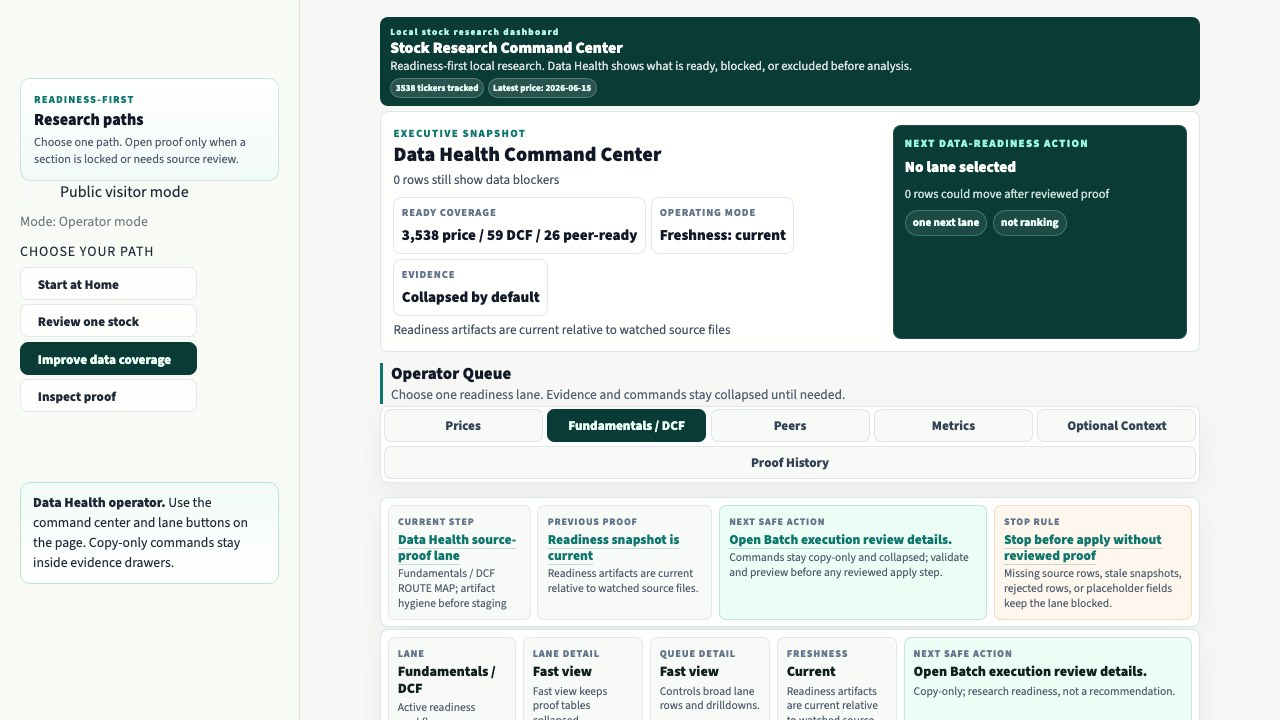
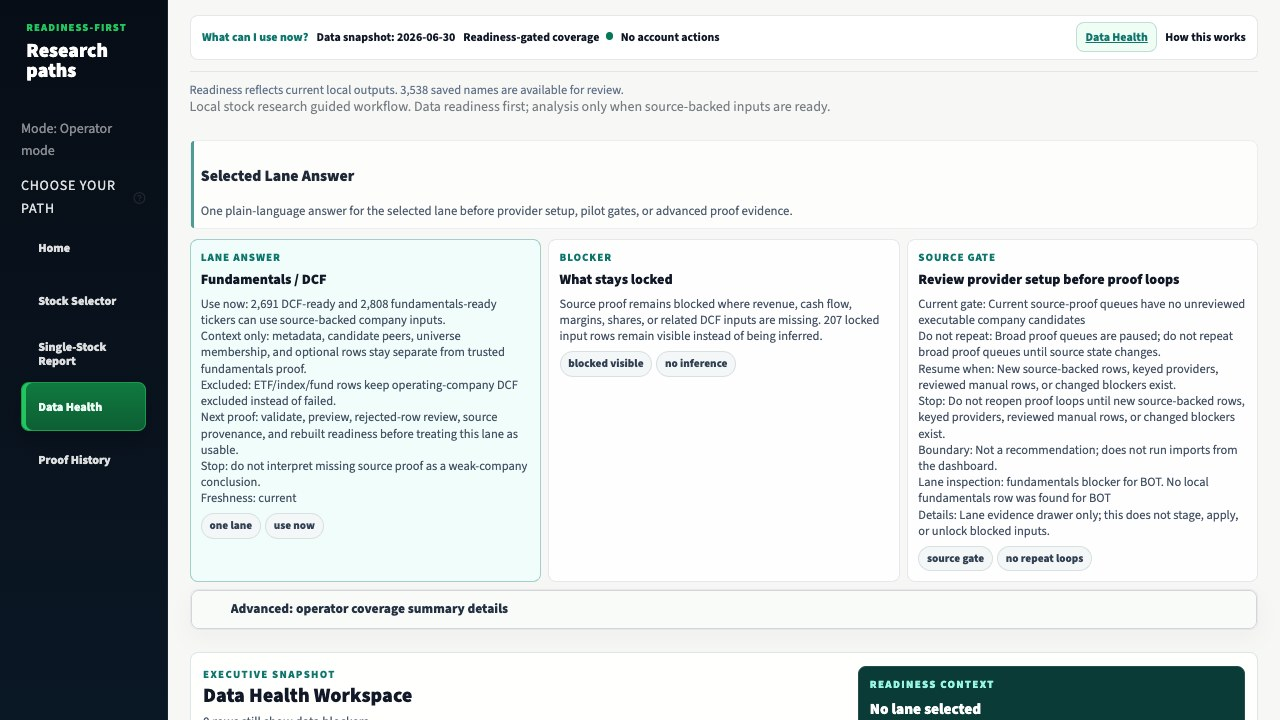
Clarify public workflow and refresh route evidence

diff --git a/tests/test_launchers.py b/tests/test_launchers.py
@@ -758,8 +758,8 @@ def test_readme_public_landing_page_is_short_visual_and_command_focused():
     assert "A tracked ticker is not automatically ready for every analysis family" in readme
     assert "## What Works Today" in readme
     assert "## Try This Visitor Workflow" in readme
-    assert "Open the product first: Home workflow start -> Stock Selector -> Single-Stock Report -> Data Health lane answer -> Proof History evidence." in readme
-    assert "Stock Selector is the primary public stock-selection surface" in readme
+    assert "Open the product first and follow the five-page path." in readme
+    assert "Stock Selector filters readiness-backed candidates without framing the queue as advice." in readme
     assert "Use terminal commands only when you want to inspect the same proof artifacts locally." in readme
     assert "Optional local proof checks:" in readme
     assert "| Home | You want the workflow question, next safe action, stop rule, and then readiness context before choosing a route. | `Home` |" in readme
@@ -767,8 +767,7 @@ def test_readme_public_landing_page_is_short_visual_and_command_focused():
     assert "| Single-Stock Report | You want a ticker-level research note with ready, blocked, excluded, and data-confidence states. | `Single-Stock Report` |" in readme
     assert "| Proof History | You want to see the proof ledger, recent source-proof actions, and still-blocked fields before trusting changed readiness. | `Proof History` |" in readme
     assert "`Home`, then focused review pages" not in readme
-    assert "The shortest public walkthrough is: Home workflow start -> Stock Selector -> Single-Stock Report -> Data Health lane answer -> Proof History evidence" in readme
-    assert "with NVDA, META, QQQ, MU, and CRDO available as optional state examples" in readme
+    assert "The shortest public walkthrough uses NVDA, META, QQQ, MU, and CRDO only as optional state examples." in readme
     assert "[Visitor Workflow Walkthrough](docs/PUBLIC_DEMO_WALKTHROUGH.md)" in readme
     assert "validate/apply step, rejected-row report, and rebuild-proof packet" not in readme
     assert "make project-status" in public_demo
@@ -849,16 +848,11 @@ def test_readme_public_landing_page_is_short_visual_and_command_focused():
             "single-stock reports with reader guidance, proof checklists, blockers, read-only proof steps, and source readiness notes",
         "The report is not a black box",
         "project rules decide what can be analyzed",
-        "Readiness gate: checks prices, fundamentals, DCF fields, peers, earnings, and estimates before deeper analysis appears",
-        "Supported analysis: price-ready rows can support setup/risk context",
+        "Price-ready rows can support setup/risk context",
         "DCF-ready rows can support assumptions and sensitivity",
         "peer-ready rows can support source-backed relative context",
-        "Locked or excluded boundaries: missing fundamentals, peer inputs, earnings, or estimates stay locked",
+        "Missing fundamentals, peer inputs, earnings, or estimates stay locked",
         "company valuation is excluded for ETF/index/fund monitor rows, not failed",
-        "Report explanation: single-stock reports show what came from source rows",
-        "what the product calculated",
-        "what stayed withheld",
-        "next local proof step",
         "Markdown reports start with a visitor scan cue, then `At A Glance`, a `Reader Guide`, an `Evaluation Snapshot`, a `Proof Checklist`, and `Best Review Path`",
         "what evidence proves the current mode",
         "what valuation is supported or blocked",
@@ -2364,7 +2358,7 @@ def test_makefile_verify_and_daily_targets_reuse_shared_make_workflows():
     assert "price-status:\n\tpython3 -m src.data_update --price-status $(if $(TOP_N),--top-n $(TOP_N),) $(if $(TICKERS),--tickers $(TICKERS),)" in makefile
     assert '@echo "Read-only guide: this target prints the visitor path only. It does not refresh data, import rows, or rewrite reports."' in makefile
     assert "@echo \"Visitor workflow path:\"" in makefile
-    assert "@echo \"   Home workflow start -> Stock Selector -> Single-Stock Report -> Data Health lane answer -> Proof History evidence\"" in makefile
+    assert "@echo \"   Home -> Stock Selector -> Single-Stock Report -> Data Health -> Proof History\"" in makefile
     assert "@echo \"   Optional state examples: NVDA ready, META blocked, QQQ excluded, MU peer-limited, CRDO fundamentals-gated\"" in makefile
     assert "@echo \"What this proves: readiness-backed selection comes first, ready data is analyzed, blocked data stays visible, and non-applicable methods are excluded instead of forced.\"" in makefile
     assert "@echo \"Data-confidence note: data confidence describes readiness and review routing, not investment conviction.\"" in makefile

diff --git a/src/browser_qa_evidence.py b/src/browser_qa_evidence.py
@@ -80,7 +80,7 @@ DEFAULT_BROWSER_QA_CAPTURE_TARGETS: tuple[BrowserQaCaptureTarget, ...] = (
             "research-loop-strip",
             "One-Stock Review",
             "Review Status",
-            "SELECTED TICKER",
+            "Selected ticker",
             "NEXT STEP",
         ),
         min_width=1000,
@@ -91,10 +91,10 @@ DEFAULT_BROWSER_QA_CAPTURE_TARGETS: tuple[BrowserQaCaptureTarget, ...] = (
         name="Data Health proof lane screenshot",
         path=Path("docs/assets/operator-data-health-proof-real.jpg"),
         route="http://localhost:8501/?mode=operator&page=data-health&lane=proof",
-        first_view_markers=("research-loop-strip", "ops-mode-strip", "Proof lane shell", "Review details"),
+        first_view_markers=("research-loop-strip", "ops-mode-strip", "Selected Lane Answer", "Proof History"),
         min_width=1000,
         min_height=600,
-        use="Operator proof that proof details are progressively loaded and not shown as raw tables first.",
+        use="Operator proof that Data Health answers the selected lane before advanced evidence details.",
     ),
     BrowserQaCaptureTarget(
         name="Data Health queue drawer routing screenshot",
@@ -103,13 +103,13 @@ DEFAULT_BROWSER_QA_CAPTURE_TARGETS: tuple[BrowserQaCaptureTarget, ...] = (
         first_view_markers=(
             "research-loop-strip",
             "ops-mode-strip",
-            "Operator Queue",
-            "ROUTE MAP",
-            "artifact hygiene",
+            "Selected Lane Answer",
+            "Fundamentals / DCF",
+            "Source Gate",
         ),
         min_width=1000,
         min_height=600,
-        use="Operator proof that queue routing leads from source proof to comparison, proof record, and artifact hygiene without executing commands.",
+        use="Operator proof that source-gate guidance appears before advanced route-map, proof drawer, and artifact hygiene details.",
     ),
 )
 
@@ -130,7 +130,7 @@ DEFAULT_BROWSER_QA_ROUTE_CHECKS: tuple[BrowserQaRouteCheck, ...] = (
             "research-loop-strip",
             "One-Stock Review",
             "Review Status",
-            "SELECTED TICKER",
+            "Selected ticker",
             "NEXT STEP",
         ),
         details_boundary="Detailed report sections stay below the selected-ticker contract, usable-now answer, blocked-input answer, and one next step.",
@@ -156,9 +156,9 @@ DEFAULT_BROWSER_QA_ROUTE_CHECKS: tuple[BrowserQaRouteCheck, ...] = (
     BrowserQaRouteCheck(
         name="Data Health proof lane progressive load",
         route="http://localhost:8501/?mode=operator&page=data-health&lane=proof",
-        first_view_markers=("research-loop-strip", "ops-mode-strip", "Proof lane shell", "Review details"),
-        details_boundary="The proof lane shell loads before ledger rows, packet details, and command builders are opened.",
-        qa_focus="Operator sees that proof detail is intentionally deferred, not missing or broken.",
+        first_view_markers=("research-loop-strip", "ops-mode-strip", "Selected Lane Answer", "Proof History"),
+        details_boundary="The selected lane answer loads before ledger rows, packet details, and command builders are opened.",
+        qa_focus="Operator sees the proof-history answer before advanced proof detail.",
         stop_rule="Stop if the proof lane first view looks empty, shows a traceback, or expands raw ledger rows by default.",
     ),
     BrowserQaRouteCheck(
@@ -172,9 +172,9 @@ DEFAULT_BROWSER_QA_ROUTE_CHECKS: tuple[BrowserQaRouteCheck, ...] = (
     BrowserQaRouteCheck(
         name="Data Health queue drawer routing",
         route="http://localhost:8501/?mode=operator&page=data-health&lane=fundamentals&drawer=queue",
-        first_view_markers=("research-loop-strip", "ops-mode-strip", "Operator Queue", "ROUTE MAP", "artifact hygiene"),
-        details_boundary="Navigation-only route map appears before per-lane drawers and detailed action tables; source proof, packet, comparison, proof record, and artifact hygiene stay collapsed.",
-        qa_focus="Operator can move from readiness queue to source proof, comparison, and proof record without hunting across disconnected sections.",
+        first_view_markers=("research-loop-strip", "ops-mode-strip", "Selected Lane Answer", "Fundamentals / DCF", "Source Gate"),
+        details_boundary="The lane answer and source gate appear before route maps, per-lane drawers, and detailed action tables.",
+        qa_focus="Operator can see why a fundamentals lane is blocked before opening advanced route-map evidence.",
         stop_rule="Stop if route links execute commands, expose raw tables first, or imply generated churn belongs in the default staging set.",
     ),
 )

diff --git a/tests/test_public_v1_release_docs.py b/tests/test_public_v1_release_docs.py
@@ -3,8 +3,7 @@ import re
 
 
 PUBLIC_V1_ROUTE = (
-    "Home workflow start -> Stock Selector -> Single-Stock Report -> "
-    "Data Health lane answer -> Proof History evidence"
+    "Home -> Stock Selector -> Single-Stock Report -> Data Health -> Proof History"
 )
 
 
@@ -41,10 +40,10 @@ def test_readme_and_roadmap_name_pilot_operator_runbook():
     readme = _read("README.md")
     roadmap = _read("ROADMAP.md")
 
-    assert "Pilot Operator Runbook" in readme
-    assert "navigation-only queue route map" in readme
-    assert "share gate -> source gate -> provider setup -> reviewed one-ticker smoke command -> validate/preview -> packet and hygiene" in readme
-    assert "does not refresh data, apply imports, or promote metadata into fundamentals proof" in readme
+    assert "Pilot packaging is read-only first" in readme
+    assert "make pilot-share-brief" in readme
+    assert "does not refresh data or unlock blocked inputs" in readme
+    assert "Provider setup is only an activation boundary" in readme
 
     assert "Pilot Operator Runbook V1" in roadmap
     assert "share gate, source gate, provider setup, reviewed one-ticker smoke command, validate/preview, packet, and hygiene" in roadmap
@@ -70,7 +69,8 @@ def test_public_docs_share_same_coverage_gate_rule():
 
     for doc in (readme, checklist, runbook):
         assert "No broad coverage batch should run from setup alone" in doc
-        assert "Provider setup only makes a source executable" in doc
+        assert "Provider setup is only an activation boundary" in doc
+        assert "it can activate a source" in doc
         assert "readiness changes still require validate, preview, rejected-row review" in doc
         assert "Do not retry exhausted proof queues until new source-backed rows, keyed provider data, reviewed manual rows, or changed blockers exist" in doc
     assert "run only the listed reviewed one-ticker smoke command before any broader batch" in checklist
@@ -113,8 +113,8 @@ def test_public_walkthrough_uses_stock_selector_before_single_stock_report():
     assert "Use `make status-check TOP_N=5` for current coverage and blocker counts." in walkthrough
     assert "controlled portfolio/demo license" in walkthrough
     assert PUBLIC_V1_ROUTE in walkthrough
-    assert "Open Stock Selector" in walkthrough
-    assert "Check Proof History" in walkthrough
+    assert "Stock Selector" in walkthrough
+    assert "Proof History" in walkthrough
     assert "Data Health source-proof lane" not in walkthrough
     assert "Home readiness snapshot ->" not in walkthrough
     assert "Home readiness snapshot -> Single-Stock Report -> Data Health source-proof lane -> proof history" not in walkthrough
@@ -134,7 +134,7 @@ def test_public_release_checklist_names_v1_routes_and_primary_surfaces():
 
     assert "Stock Selector is the primary public stock-selection surface" in checklist
     assert "Proof History evidence is the public proof-inspection surface" in checklist
-    assert "Data Health lane answer" in checklist
+    assert "Data Health should stay the first coverage-readiness surface" in checklist
     assert "one answer per lane before queue drawers, route maps, advanced evidence details, or proof ledgers" in checklist
     assert "one answer per lane before queue drawers, route maps, raw tables, or proof ledgers" not in checklist
     assert "Operator context" in checklist

diff --git a/tests/test_browser_qa_evidence.py b/tests/test_browser_qa_evidence.py
@@ -447,11 +447,10 @@ def test_default_route_checks_cover_workflow_fit_proof_loading_and_queue_routing
     assert "review status" in rendered
     assert "selected ticker" in rendered
     assert "next step" in rendered
-    assert "proof lane shell" in rendered
-    assert "intentionally deferred" in rendered
-    assert "navigation-only" in rendered
-    assert "route map appears before per-lane drawers" in rendered
-    assert "artifact hygiene" in rendered
+    assert "selected lane answer" in rendered
+    assert "before advanced proof detail" in rendered
+    assert "source gate" in rendered
+    assert "before route maps" in rendered
     assert "generated churn" in rendered
     assert "execute commands" in rendered
     assert "investment advice" not in rendered

diff --git a/README.md b/README.md
@@ -32,22 +32,16 @@ flowchart LR
 
 - Best first click: open the real dashboard preview, then follow Home -> Stock Selector -> Single-Stock Report -> Data Health -> Proof History.
 - Example reports to skim: `NVDA`, `META`, `QQQ`, `MU`, and `CRDO`.
-- Evidence boundary: `docs/assets/linkedin-public-dashboard.png` and other screenshots show the product UI only; `make status-check TOP_N=5` remains the source for current local counts, and `make browser-qa-evidence` checks public screenshot assets before replacement.
-- Core product idea: missing data is a quality-control signal, not something to hide or guess.
-- Strongest demo: ready data is analyzed, blocked data stays visible, and ETF/index methods are excluded instead of forced.
-- Share-safe boundary: this is research software, not investment advice, broker integration, or an execution system.
+- Evidence boundary: `docs/assets/linkedin-public-dashboard.png` and screenshots show product UI only; `make status-check TOP_N=5` remains the source for current local counts.
+- Share-safe boundary: research software only, not investment advice, broker integration, or an execution system.
+
 ## What You Can Analyze
 
 When trusted local data is available, the product can produce price, momentum, benchmark-relative return, drawdown, volatility, beta, Sharpe/Sortino review metrics, liquidity, market-direction context, portfolio purpose checks, thesis-review flags, DCF readiness, conservative scenario valuation, source-backed peer context, ETF/index monitor reports, and single-stock reports with reader guidance, proof checklists, blockers, read-only proof steps, and source readiness notes. Most blocked rows are not errors. They are data gaps the command center exposes instead of hiding.
 
 ## How Analysis Works
 
-The report is not a black box: local data rows provide inputs, and project rules decide what can be analyzed.
-
-1. Readiness gate: checks prices, fundamentals, DCF fields, peers, earnings, and estimates before deeper analysis appears.
-2. Supported analysis: price-ready rows can support setup/risk context and benchmark/risk review metrics, DCF-ready rows can support assumptions and sensitivity, and peer-ready rows can support source-backed relative context.
-3. Locked or excluded boundaries: missing fundamentals, peer inputs, earnings, or estimates stay locked; company valuation is excluded for ETF/index/fund monitor rows, not failed.
-4. Report explanation: single-stock reports show what came from source rows, what the product calculated, what stayed withheld, and the next local proof step.
+The report is not a black box: local data rows provide inputs, and project rules decide what can be analyzed. Price-ready rows can support setup/risk context and benchmark/risk review metrics, DCF-ready rows can support assumptions and sensitivity, and peer-ready rows can support source-backed relative context. Missing fundamentals, peer inputs, earnings, or estimates stay locked; company valuation is excluded for ETF/index/fund monitor rows, not failed.
 
 ## Current Snapshot
 
@@ -59,8 +53,6 @@ Visitor status: the product workflow, dashboard, single-stock reports, readiness
 
 ## Data Coverage Strategy
 
-The product separates refreshable data from judgment-required data:
-
 | Data lane | Best next move | Why it matters |
 | --- | --- | --- |
 | Prices | Use `make price-history-proof-queue TOP_N=25` before `make price-refresh-loop DRY_RUN=1`; `PROVIDER=auto` tries Yahoo, Stooq, then configured FMP/Alpha Vantage/Finnhub price fallbacks. | Price coverage can scale safely, but refreshed CSVs should be reviewed before commit. |
@@ -69,9 +61,9 @@ The product separates refreshable data from judgment-required data:
 | Peers | Use `DRY_RUN=1 make peer-batch-proof TOP_N=10` to preview source-backed peer mappings separately from mapped-peer valuation inputs; use `DRY_RUN=1 make peer-mapping-source-review TOP_N=10` before editing `data/imports/peers.csv`; use `make peer-mapping-writeback-guard ...` to block placeholders, self-peers, and duplicate peer pairs before copy/paste, then dry-run the proof-record scaffold; use the ranked pilot packet first when a peer-input lane leads, such as `make trusted-data-pilot-packet TICKER=MU`. | Peer trend and peer valuation stay separate; guessed peers or file row counts do not become valuation. |
 | Earnings / estimates | Keep locked until trusted local rows exist. | Empty optional context is intentional, not a broken chart. |
 
-Pilot packaging starts with read-only gates: `make pilot-readiness-check TOP_N=10` for sync, hygiene, freshness, source-proof queues, proof ledger, screenshot evidence, public-check, and guardrails; `make pilot-share-brief` for the concise public/demo share brief at `outputs/pilot_share_brief.md`; `make pilot-readiness-packet` for the full reviewer packet at `outputs/pilot_readiness_packet.md`; and `make diff-hygiene-summary` to keep broad generated patterns such as `data/*.csv`, `data/reports/*.csv`, and `outputs/*.csv` excluded unless a specific artifact is reviewed evidence. The share brief is a snapshot handoff only: it does not refresh data or unlock blocked inputs. When source-proof queues are exhausted, `make provider-setup-checklist` shows the current source gate and the provider-specific reviewed one-ticker smoke command to run before any broader batch.
+Pilot packaging is read-only first: `make pilot-readiness-check TOP_N=10` checks sync, hygiene, freshness, source-proof queues, proof ledger, screenshot evidence, public-check, and guardrails; `make pilot-share-brief` writes the concise public/demo share brief at `outputs/pilot_share_brief.md`, which does not refresh data or unlock blocked inputs; `make pilot-readiness-packet` writes the fuller reviewer packet; and `make diff-hygiene-summary` keeps broad generated patterns excluded unless a specific artifact is reviewed evidence.
 
-Data Health mirrors that same pilot handoff before detailed tables. The Pilot Evidence Review strip puts share status, screenshot evidence, reviewer packet, public-check boundary, generated-churn policy, and the leading source-proof blocker in one place before raw tables. The Public Share Final Gate then combines GitHub sync, public-check, browser evidence, generated-churn exclusion, packet status, and research-only wording before GitHub or LinkedIn sharing. A workflow continuity strip connects that review to the next safe action, navigation-only queue route map, proof lane, artifact hygiene, and reviewer packet. The Pilot Operator Runbook then gives the compact operating sequence: share gate -> source gate -> provider setup -> reviewed one-ticker smoke command -> validate/preview -> packet and hygiene. It does not refresh data, apply imports, or promote metadata into fundamentals proof. No broad coverage batch should run from setup alone. Provider setup only makes a source executable; readiness changes still require validate, preview, rejected-row review, source provenance, apply/skip decision, rebuilt readiness, and proof ledger evidence. Do not retry exhausted proof queues until new source-backed rows, keyed provider data, reviewed manual rows, or changed blockers exist.
+When proof queues are exhausted, use `make project-status` and then `make provider-setup-checklist`. Provider setup is only an activation boundary: it can activate a source, but readiness changes still require validate, preview, rejected-row review, source provenance, apply/skip decision, rebuilt readiness, and proof ledger evidence. No broad coverage batch should run from setup alone. Do not retry exhausted proof queues until new source-backed rows, keyed provider data, reviewed manual rows, or changed blockers exist.
 
 For batch planning after the pilot gate, use `make readiness-ops-center`, `make readiness-queue TOP_N=10`, `make data-coverage-proof-queues TOP_N=10`, `make coverage-frontier TOP_N=10`, and `make data-coverage-planner TOP_N=10`. The readiness queue summarizes fundamentals/DCF, peer mapping, mapped-peer valuation inputs, optional locked lanes, and SPY/QQQ metric-readiness blockers before opening ticker-level proof. The data-coverage proof queue portfolio then puts the DCF input batches, shares-outstanding proof, trusted fundamentals proof, peer mapping proof, and peer valuation-input proof queues side by side with next commands, stop rules, and generated-churn policy.
 
@@ -97,7 +89,15 @@ Start with the five public paths the dashboard is built around:
 | Data Health | You want to understand what trusted input is missing and which proof path should be reviewed next. | `Data Health` |
 | Proof History | You want to see the proof ledger, recent source-proof actions, and still-blocked fields before trusting changed readiness. | `Proof History` |
 
-The dashboard starts in public visitor mode so people can follow the real workflow first: Home workflow start -> Stock Selector -> Single-Stock Report -> Data Health lane answer -> Proof History evidence. Home now opens with the workflow question, next safe action, stop rule, and then readiness context, so counts support the path instead of replacing it. Stock Selector is the primary public stock-selection surface: it filters readiness-backed candidates, keeps blockers and proof steps visible, and links rows to `?mode=public&page=single-stock-report&ticker=NVDA&open=1` or the matching proof route without framing the queue as advice. Single-Stock Report shows selected-ticker readiness before the report button, then repeats the loop locally for the loaded ticker before detailed report sections; a focused Data Health handoff card names the matching lane answer for locked inputs, while read-only proof steps stay in collapsed proof detail. Data Health starts with Coverage Summary / What Can I Use, giving one clear answer per lane plus the blocker reason, proof needed to unlock, and stop rule before source-proof drawers or raw tables. Proof History evidence is the public proof-inspection surface before trusting a changed state. Use `http://localhost:8501/?mode=public` for the clean GitHub/LinkedIn path, and switch off Public visitor mode in the sidebar when you want internal Operator context, detailed boards, and local proof commands. Focused public pages now cover Home, Stock Selector, Single-Stock Report, Data Health, and Proof History; advanced pages remain secondary, and watchlist-style outputs stay readiness-state output, not an action list.
+The dashboard starts in public visitor mode at `http://localhost:8501/?mode=public`.
+
+- Home answers what the product is, where to start, and when to stop.
+- Stock Selector filters readiness-backed candidates without framing the queue as advice.
+- Single-Stock Report shows selected-ticker readiness, usable sections, blocked inputs, and one next step before detailed report sections.
+- Data Health starts with Coverage Summary / What Can I Use, one answer per lane, and advanced proof drawers collapsed.
+- Proof History is evidence-only before trusting a changed readiness state.
+
+Switch off Public visitor mode only for internal Operator context, detailed boards, local proof commands, and validate / preview / apply guidance. Advanced pages remain secondary, and watchlist-style outputs stay readiness-state output, not an action list.
 
 ## Quick Start
 
@@ -116,7 +116,7 @@ When you want to run a controlled pilot, use the [Pilot Runbook](docs/PILOT_RUNB
 
 ## Try This Visitor Workflow
 
-Open the product first: Home workflow start -> Stock Selector -> Single-Stock Report -> Data Health lane answer -> Proof History evidence. Use terminal commands only when you want to inspect the same proof artifacts locally.
+Open the product first and follow the five-page path. Use terminal commands only when you want to inspect the same proof artifacts locally.
 
 ```bash
 make demo                         # print the visitor path without changing local data
@@ -136,7 +136,7 @@ make trusted-data-pilot-candidates TOP_N=10  # only when status shows executable
 make trusted-data-pilot-packet TICKER=MU && make trusted-data-pilot-packet TICKER=CRDO
 ```
 
-The shortest public walkthrough is: Home workflow start -> Stock Selector -> Single-Stock Report -> Data Health lane answer -> Proof History evidence, with NVDA, META, QQQ, MU, and CRDO available as optional state examples. That shows the core idea quickly: the product can filter candidates by readiness, analyze ready data, explain blocked data, separate master/active/ready/missing-data scopes, show liquidity/correlation context without turning it into a conclusion, exclude methods that do not apply, show peer-limited DCF, and print the trusted-data proof path without pretending missing rows exist.
+The shortest public walkthrough uses NVDA, META, QQQ, MU, and CRDO only as optional state examples. That shows the core idea quickly: filter by readiness, analyze ready data, explain blocked data, exclude methods that do not apply, and show the trusted-data proof path without pretending missing rows exist.
 
 Example map: [NVDA](outputs/stock_reports/nvda.md) shows Company DCF assumptions and source-backed peer context; [A](outputs/stock_reports/a.md) / MU show Standalone DCF review where peer-relative valuation is still locked; [META](outputs/stock_reports/meta.md) shows Price/setup review where valuation remains gated; [QQQ](outputs/stock_reports/qqq.md) / [SMH](outputs/stock_reports/smh.md) show ETF/index context where Operating-company DCF is excluded, not failed; [APLD](outputs/stock_reports/apld.md) / CRDO show Price/setup review with valuation still locked and the next trusted fundamentals proof step. Optional reports: `make stock-report-md TICKER=A`, `make stock-report-md TICKER=SMH`, and `make stock-report-md TICKER=APLD`.
 

diff --git a/docs/PUBLIC_DEMO_WALKTHROUGH.md b/docs/PUBLIC_DEMO_WALKTHROUGH.md
@@ -17,24 +17,28 @@ This project is a local research command center. It checks data readiness before
 Best visitor path:
 
 1. Open the README and dashboard preview.
-2. Run `make demo` to print the safe walkthrough.
-3. Run `make dashboard` and open `http://localhost:8501/?mode=public` for the clean visitor view.
-4. Open Stock Selector at `?mode=public&page=stock-selector` to show the readiness-backed queue before one-ticker analysis.
-5. Open `?mode=public&page=single-stock-report&ticker=NVDA&open=1` for a DCF-ready company example.
-6. Open Data Health at `?mode=public&page=data-health` when a selector row or report section is blocked by source data.
-7. Check Proof History at `?mode=public&page=proof-history` before trusting changed readiness.
-8. Run `make status-check TOP_N=5` only when you want terminal proof of current coverage and blockers.
-9. Open `outputs/stock_reports/mu.md` for standalone DCF with mapped-peer valuation inputs still locked.
-10. Open `outputs/stock_reports/qqq.md` for ETF/index monitor context where operating-company DCF is excluded.
-11. Run `make project-status`, then `make provider-setup-checklist`, to show the current source gate before any coverage-improvement queue.
-12. Run `make trusted-data-pilot-candidates TOP_N=10` only when project status shows executable company candidates; if the shortlist starts with peer inputs, open `make trusted-data-pilot-packet TICKER=MU`; for fundamentals/DCF proof, open `make trusted-data-pilot-packet TICKER=CRDO`.
+2. Run `make demo` to print the safe walkthrough without changing local data.
+3. Run `make dashboard` and open `http://localhost:8501/?mode=public`.
+4. Follow the five public pages: Home -> Stock Selector -> Single-Stock Report -> Data Health -> Proof History.
+5. Use the examples below only to show different readiness states.
+6. Run `make status-check TOP_N=5` only when you want terminal proof of current coverage and blockers.
+
+What each page answers:
+
+| Page | First question | What to show |
+| --- | --- | --- |
+| Home | What is this product and where do I start? | Readiness-first workflow, next safe action, stop rule. |
+| Stock Selector | Which stock can I review? | Readiness-backed queue before one-ticker analysis. |
+| Single-Stock Report | What can I use for this ticker right now? | Selected ticker state, usable sections, blocked inputs. |
+| Data Health | Why is something blocked and how do I fix it? | One lane answer before proof drawers or raw tables. |
+| Proof History | What evidence changed a readiness state? | Evidence-only trail before trusting a changed state. |
 
 ## Demo Examples
 
 | Example | What it proves | Good line to point out |
 | --- | --- | --- |
 | `NVDA` | Ready company review. | DCF assumptions and source readiness appear because inputs passed readiness. |
-| `MU` | Standalone DCF, peer valuation still locked. | Mapped-peer price/fundamental inputs are required before peer-relative valuation appears. |
+| `MU` | Standalone DCF, mapped-peer valuation inputs still locked. | Mapped-peer price/fundamental inputs are required before peer-relative valuation appears. |
 | `META` | Price/setup review with valuation gated. | Missing fundamentals keep valuation locked instead of inferred. |
 | `QQQ` / `SMH` | ETF/index or sector monitor context. | Operating-company DCF is excluded, not failed. |
 | `CRDO` / `APLD` | Blocked company examples. | The report shows the next trusted-data proof step instead of fabricating inputs. |
@@ -56,7 +60,9 @@ make trusted-data-pilot-packet TICKER=CRDO
 make dashboard
 ```
 
-The dashboard defaults to Public visitor mode. The first path is the real workflow: Home workflow start -> Stock Selector -> Single-Stock Report -> Data Health lane answer -> Proof History evidence. Home starts with the visitor question, next safe action, and stop rule before readiness counts. Stock Selector is the public stock-selection surface; Single-Stock Report stays one ticker at a time; Data Health explains blocked source inputs with one lane answer first; Proof History evidence records source-proof changes before a changed state is trusted. Switch Public visitor mode off in the sidebar only when you want Operator context, detailed proof tables, coverage frontier workflows, or validate / preview / apply guidance.
+The dashboard defaults to Public visitor mode. Keep visitors on the five-page path first; switch Public visitor mode off only for Operator context, detailed proof tables, coverage frontier workflows, or validate / preview / apply guidance.
+
+Provider setup is an operator-side follow-up, not a demo prerequisite. If `make project-status` says source-proof queues are exhausted, run `make provider-setup-checklist` to see which free/public sources are usable now and which optional keyed providers need local keys. Setup alone does not unlock coverage; readiness still requires source proof, validation, preview, rejected-row review, apply/skip decision, rebuilt readiness, and proof history.
 
 ## What To Say About Data Gaps
 

diff --git a/docs/PUBLIC_RELEASE_CHECKLIST.md b/docs/PUBLIC_RELEASE_CHECKLIST.md
@@ -12,7 +12,7 @@ Use this checklist before sharing the repository on GitHub or LinkedIn.
 - Keep the dashboard `Data Health` page visible as the safe freshness guide: read-only routine first, capped price dry-run before real refreshes, and review-required lanes for fundamentals, peers, earnings, and analyst estimates.
 - Confirm the V1 public route set works before replacing the current design in use: `?mode=public&page=home`, `?mode=public&page=stock-selector`, `?mode=public&page=single-stock-report&ticker=NVDA&open=1`, `?mode=public&page=data-health`, and `?mode=public&page=proof-history`.
 - Stock Selector is the primary public stock-selection surface. It should show readiness-backed candidates, blockers, next proof steps, and row actions without presenting the queue as a recommendation list.
-- Data Health lane answer should stay the first coverage-readiness surface: one answer per lane before queue drawers, route maps, advanced evidence details, or proof ledgers.
+- Data Health should stay the first coverage-readiness surface: one answer per lane before queue drawers, route maps, advanced evidence details, or proof ledgers.
 - Proof History evidence is the public proof-inspection surface. The `Proof History` page should land there rather than shortcutting visitors into a generic Data Health table.
 - Operator context should stay collapsed by default and be framed as secondary evidence, not the primary visitor workflow.
 - Confirm visitors are not told to manually refresh all 3,538 tickers every day; the public workflow should explain lane-specific freshness and generated-data hygiene instead.
@@ -25,7 +25,7 @@ Use this checklist before sharing the repository on GitHub or LinkedIn.
 - Keep `make trusted-data-pilot-packet TICKER=CRDO` visible as the one-company before report, review path, validate/preview gate, apply boundary, rejected-row, and rebuild-proof packet after a candidate is chosen.
 - Keep `make trusted-data-pilot TICKERS=<chosen names> TOP_N=10` visible as the follow-up evidence loop after candidates are selected.
 - Confirm the pilot output shows the next decision and evidence expectation: proceed only when source proof exists, otherwise keep the ticker visibly blocked by missing data and move to the next candidate.
-- Confirm provider setup remains source-gated: No broad coverage batch should run from setup alone. Provider setup only makes a source executable; readiness changes still require validate, preview, rejected-row review, source provenance, apply/skip decision, rebuilt readiness, and proof ledger evidence. Do not retry exhausted proof queues until new source-backed rows, keyed provider data, reviewed manual rows, or changed blockers exist.
+- Confirm provider setup remains source-gated: No broad coverage batch should run from setup alone. Provider setup is only an activation boundary: it can activate a source, but readiness changes still require validate, preview, rejected-row review, source provenance, apply/skip decision, rebuilt readiness, and proof ledger evidence. Do not retry exhausted proof queues until new source-backed rows, keyed provider data, reviewed manual rows, or changed blockers exist.
 - Confirm local file status is framed as inspection only: file presence, row counts, staged-folder counts, or rejected-row report existence are not proof until source review, validation, preview, apply boundary, readiness rebuild, and the regenerated report prove the lane changed.
 - Confirm the pilot selection brief is visible: choose 5-10 operating companies only when source proof exists, show the current lane mix, and define a useful pilot win as before report, lane review, trusted source row, validate/preview gate, apply boundary if rows change, rebuilt readiness, after report, and any still-blocked reason.
 - Keep the trusted-data pilot company-focused. Suggested starter set: `NVDA,AVGO,AMD,MU,CRDO,COHR,LITE,HOOD,TSLA,META`. Treat `QQQ` and `SMH` as ETF/index monitor demos, not operating-company DCF targets.

diff --git a/docs/LINKEDIN_PROJECT_BRIEF.md b/docs/LINKEDIN_PROJECT_BRIEF.md
@@ -91,6 +91,6 @@ LinkedIn can cache older GitHub preview images. If the Featured card still shows
 - Use the one-company evidence packet to explain that a useful coverage win needs before/after proof, source evidence, and a rebuilt report, not just a new CSV row.
 - Explain that the pilot is intentionally small: pick 5-10 operating companies where the missing input can be source-reviewed, and leave the rest visibly blocked by missing data until trusted rows exist.
 - Mention that `QQQ` and `SMH` demonstrate monitor context; the company pilot should use operating-company tickers.
-- Run `make dashboard` locally and open `http://localhost:8501/?mode=public` to show the clean visitor workflow: Home workflow start -> Stock Selector -> Single-Stock Report -> Data Health lane answer -> Proof History evidence. Turn off Public visitor mode only when you want Operator context, coverage frontier details, reviewed batch packets, and validate / preview / apply guidance.
+- Run `make dashboard` locally and open `http://localhost:8501/?mode=public` to show the clean visitor workflow: Home -> Stock Selector -> Single-Stock Report -> Data Health -> Proof History. Turn off Public visitor mode only when you want Operator context, coverage frontier details, reviewed batch packets, and validate / preview / apply guidance.
 - Point to `docs/METHODOLOGY.md` when someone asks how the analysis is calculated, to `docs/analysis_capability_audit.md` when someone asks what is strong or intentionally limited today, and to `docs/DATA_STRATEGY.md` when someone asks how coverage can improve without fabricating fundamentals, peers, earnings, or estimates.
 - Mention that the project is intentionally research-only and does not connect to a broker or place trades.

diff --git a/docs/PILOT_RUNBOOK.md b/docs/PILOT_RUNBOOK.md
@@ -95,7 +95,7 @@ http://localhost:8501/?mode=public
 Visitor path:
 
 ```text
-Home workflow start -> Stock Selector -> Single-Stock Report -> Data Health lane answer -> Proof History evidence
+Home -> Stock Selector -> Single-Stock Report -> Data Health -> Proof History
 ```
 
 Operator path:
@@ -108,7 +108,7 @@ make trusted-data-pilot-packet TICKER=<ticker>
 make stock-report-md TICKER=<ticker>
 ```
 
-Coverage gate: No broad coverage batch should run from setup alone. Provider setup only makes a source executable; readiness changes still require validate, preview, rejected-row review, source provenance, apply/skip decision, rebuilt readiness, and proof ledger evidence. Do not retry exhausted proof queues until new source-backed rows, keyed provider data, reviewed manual rows, or changed blockers exist.
+Coverage gate: No broad coverage batch should run from setup alone. Provider setup is only an activation boundary: it can activate a source, but readiness changes still require validate, preview, rejected-row review, source provenance, apply/skip decision, rebuilt readiness, and proof ledger evidence. Do not retry exhausted proof queues until new source-backed rows, keyed provider data, reviewed manual rows, or changed blockers exist.
 
 Use 5 to 10 operating companies for the controlled pilot. ETF/index examples such as QQQ and SMH are useful monitor-context demos, but they are not operating-company DCF targets.
 

diff --git a/docs/METHODOLOGY.md b/docs/METHODOLOGY.md
@@ -31,7 +31,7 @@ Use this quick model card before relying on a page or report:
 The public page order is a reading workflow, not an analysis shortcut.
 
 ```text
-Home workflow start -> Stock Selector -> Single-Stock Report -> Data Health lane answer -> Proof History evidence
+Home -> Stock Selector -> Single-Stock Report -> Data Health -> Proof History
 ```
 
 Home starts with the visitor question, next safe action, and stop rule before readiness counts. Stock Selector chooses one readiness-backed candidate; Single-Stock Report explains what can be used for that ticker; Data Health explains one blocked lane at a time; Proof History verifies reviewed evidence before trusting a changed state. This page order helps a visitor understand the product, but it does not turn blocked fundamentals, share counts, peers, earnings, estimates, valuation inputs, or metrics into usable inputs. Those fields still require source-backed rows, validation, preview, rejected-row review, apply, rebuilt readiness, and proof history.
